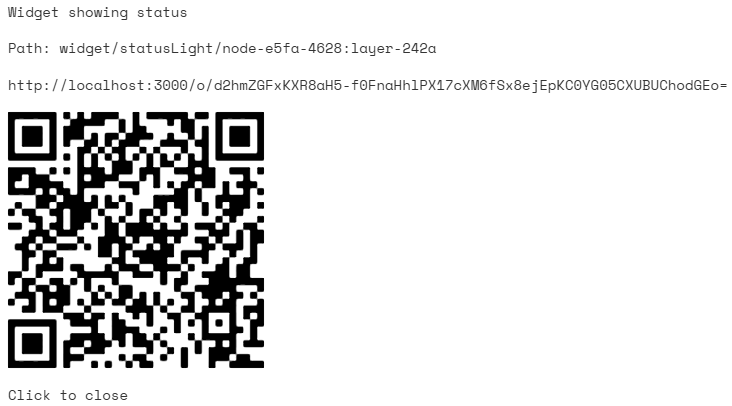
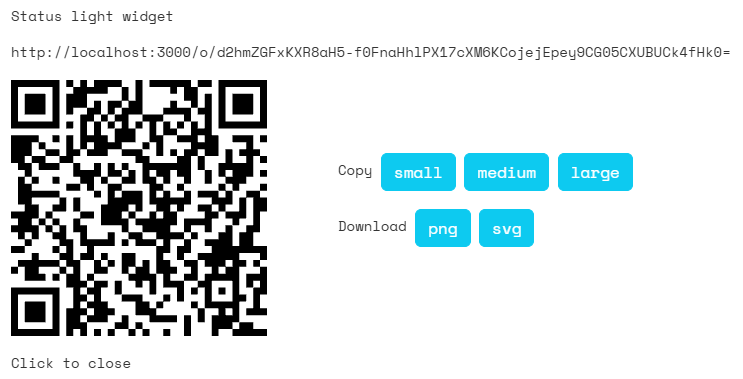
Update documentation, improve QR code popup

diff --git a/frontend/src/editor/component/map/panel/layer/type/panel/app/LayerStatusLightPanel.tsx b/frontend/src/editor/component/map/panel/layer/type/panel/app/LayerStatusLightPanel.tsx
@@ -40,10 +40,10 @@ export const LayerStatusLightPanel = ({node, layer}: Props) => {
                                                                                                                index={index}/>)}
 
             <AddOptions statusLight={statusLight}/>
-            <AttributeUrlWithQr name="Switch" type="app" subType="switch" layerId={statusLight.id} description="App for changing status"
+            <AttributeUrlWithQr name="Switch" type="app" subType="switch" layerId={statusLight.id} description="Switch"
                                 fileName={`node-${node.networkId}-level-${layer.level}-${layer.name}-switch`}/>
 
-            <AttributeUrlWithQr name="Widget" type="widget" subType="statusLight" layerId={statusLight.id} description="Widget showing status"
+            <AttributeUrlWithQr name="Widget" type="widget" subType="statusLight" layerId={statusLight.id} description="Status light widget"
                                 requireLogin={false} fileName={`node-${node.networkId}-level-${layer.level}-${layer.name}-widget`}/>
 
         </LayerPanel>

diff --git a/frontend/src/editor/component/map/panel/layer/element/AttributeUrlWithQr.tsx b/frontend/src/editor/component/map/panel/layer/element/AttributeUrlWithQr.tsx
@@ -27,8 +27,6 @@ export const AttributeUrlWithQr = ({name, layerId, type, subType, description, r
                     <div>
                         <div>{description}</div>
                         <div>&nbsp;</div>
-                        <div>Path: {path}</div>
-                        <div>&nbsp;</div>
                         <div>{url}</div>
                         <div onClick={dismissMethod}><br/>
                             <QrDownload fileName={fileName} value={url}/>

diff --git a/website/docs/gm/sites/basic/Status lights.md b/website/docs/gm/sites/basic/Status lights.md
@@ -2,43 +2,73 @@
 sidebar_position: 7
 ---
 # Status lights
-A status light is a layer that is used to represent something in the real world that can be influence by the hackers in Attack Vector. In the real world you have to show the value of the status light with a separate phone or laptop. For the purpose of explanation we'll assume you are using a phone.
+A status light is a layer that is used to represent something in the real world that can be influence by the hackers in Attack Vector.
 
-## Switch and widget
-When you create a status light layer, there are two URLs
+## Status light options
+When you create a status light layer in the editor, these are the properties:
 
-![](../../../assets/gm/sites/status-light-properties.png)
+![](../../../assets/gm/sites/basic/status-light-properties.png)
 
-**Switch**: this is the URL of the switch.
+## Options
+The middle section shows you the options that status light can have and the  current option. You can change the current option from here.
 
-**Widget**: this is the URL that displays the status.
+Each option has a color and an (option) text. The color is defined as a css color. This means that you can enter either a fixed color, as defined [here](https://developer.mozilla.org/en-US/docs/Web/CSS/Reference/Values/named-color). Or you can enter a hex value, such as: `#345` or `#ffd700`.
 
-Open a browser on the phone and go to the URL of the widget. This will show that the status light is currently off:
+You can add and remove options, the minimum number of options is two.
 
-![](../../../assets/gm/sites/basic/widget-off.png)
 
-What the players will see when they hack the status light layer, is the switch. Currently it looks like this:
+## Switch and Widget
+In the world of the players, there are two things that represent the status light:
 
-![](../../../assets/gm/sites/basic/switch-off.png)
+- Widget: this is where players can see the status light, what state it is in.
+- Switch: this is where hackers (or players) can change the state.
 
-If the players (or you) flip the switch, the phone will show:
+In the status light properties, there are two URLs that can be used to access them:
 
-![](../../../assets/gm/sites/basic/widget-on.png)
+![](../../../assets/gm/sites/basic/status-light-properties-urls.png)
 
-And the switch will look like:
+### Widget
+You can show the value of the status light with a separate phone or laptop. For the purpose of explanation we'll assume you are using a phone.
 
-![](../../../assets/gm/sites/basic/switch-on.png)
+Open a browser on the phone and go to the URL of the widget. This will show the current status:
 
-You can go to the switch URL yourself and try it out.
+![](../../../assets/gm/sites/basic/widget-off.png) OR ![](../../../assets/gm/sites/basic/widget-on.png)
+
+### Switch
+When the players hack the status light layer, they will access the switch. A new browser tab will open, looking like this:
+
+![](../../../assets/gm/sites/basic/switch-on-with-label.png)
+
+The text "Security camera" is the label of the switch. It is only visible on the switch itself. It can be different from the name of the layer.
+
+As a game master you can also open the switch URL directly to see how it works.
+
+Alternatively, you can also give some players direct access to the switch. These players don't have to be hackers. More details [here](#direct-access-to-the-switch).
+
+
+## Three or more options
+When a status light has three or more options, the interfaces change slightly.
+
+Suppose you add an option 'starting up':
+
+![](../../../assets/gm/sites/basic/status-light-3-options-gm.png)
+
+Then the switch will look like this:
+
+![](../../../assets/gm/sites/basic/status-light-3-options-with-label.png)
+
+
 
 ## Use cases
 There are many ways to use the status light in your Larp.
 
 You can put a phone next to a door and tell the players that the door is locked when the phone shows a red light.
 
-You can integrate the phone into a prop for the life support system. If the players flip the switch, the life support system will become red and indicate to the players that they will be running out of oxygen.,
+You can integrate the phone into a prop for the life support system. If the players flip the switch, the life support system will become red and indicate to the players that they will be running out of oxygen.
 
-## Status light layers in the editor
+You don't have to show the status light widget in the real world. If you are watching them hack, you can just have the world react the players flipping the switch.
+
+## Status light layer types in the editor
 In the site editor there are two icons for this layer type: 
 
 ![](../../../assets/gm/sites/basic/status-light-layer-icons.png)
@@ -47,16 +77,14 @@ The first creates a status light that has been set up as a lock. The text for re
 
 The second creates a generic status light. he text for red is `off` and the text for green is `on`. 
 
-There is no further difference between those two. And you can always change the text for red and green as fits your use case.
+There is no further difference between those two. And you can always change the text and colors as you see fit.
 
 ## QR codes
 If you click on the **QR** button a popup will open with a QR code. You can scan this code with a phone to directly open the page.
 
 ![](../../../assets/gm/sites/basic/widget-qr.png)
 
-This can be a convenient way to open the URL on the widget phone.
-
-You *can* access the switch via the switch URL optionally using a phone for this and using that QR code. This is intended for standalone use, more details [here](/gm/standalone/Standalone%20apps).
+The Copy and Download buttons are for convenience, for if you want to use the QR code image somewhere else.
 
 ## Direct access to the switch
 You can give players direct access to the switch by giving them the URL or the QR code. This works as described in the standalone section, see [here](/gm/standalone/Standalone%20apps).

diff --git a/website/docs/player/layers/Status Light.md b/website/docs/player/layers/Status Light.md
@@ -2,9 +2,9 @@
 sidebar_position: 8
 ---
 # Status light
-This layer type represent something in the real world that can be turned on and off, or locked and unlocked.
+This layer type represent something in the real world that can be changed. For example a device that can be turned on and off. Or a door that can be unlocked.
 
-By hacking this layer you can change the status of the thing, so unlocking the door, or disabling the security system.
+By hacking this layer you gain control over the status of the device.
 
 ```
 ⇋ view 
@@ -17,16 +17,22 @@ Opened in new window.
 ```
 Hacking this layer opens a new browser tab that shows the switch and you to flip it.
 
+State off:
+
 ![](../../assets/gm/sites/basic/switch-off.png)
+
+State on:
 
 ![](../../assets/gm/sites/basic/switch-on.png)
 
 There can be something in the real world that shows the current state. This will be a phone or a laptop. The state shown on the phone or laptop is changed in real time when you flip the switch.
 
-This will look something like this:
+This will look like this:
 
-![](../../assets/gm/sites/basic/widget-off.png) 
+![](../../assets/gm/sites/basic/widget-off.png) or ![](../../assets/gm/sites/basic/widget-on.png)
 
-or 
+## Status lights with three or more options
+It's possible for a status light to have more than two options. In that case the switch will look like this:
 
-![](../../assets/gm/sites/basic/widget-on.png)
+![](../../assets/gm/sites/basic/switch-3-options.png)
+

diff --git a/website/docs/gm/standalone/Standalone apps.md b/website/docs/gm/standalone/Standalone apps.md
@@ -35,7 +35,7 @@ Create a site that contains a status light layer.
 ```
 In the editor copy the Switch URL:
 
-![](../../assets/gm/sites/status-light-properties.png)
+![](../../assets/gm/sites/basic/status-light-properties-urls.png)
 
 Have the players find this URL in the game. When they access this URL, they go directly to the switch page. This page can be access with a mobile phone. So you can also use the QR code of the Switch URL instead.
 
